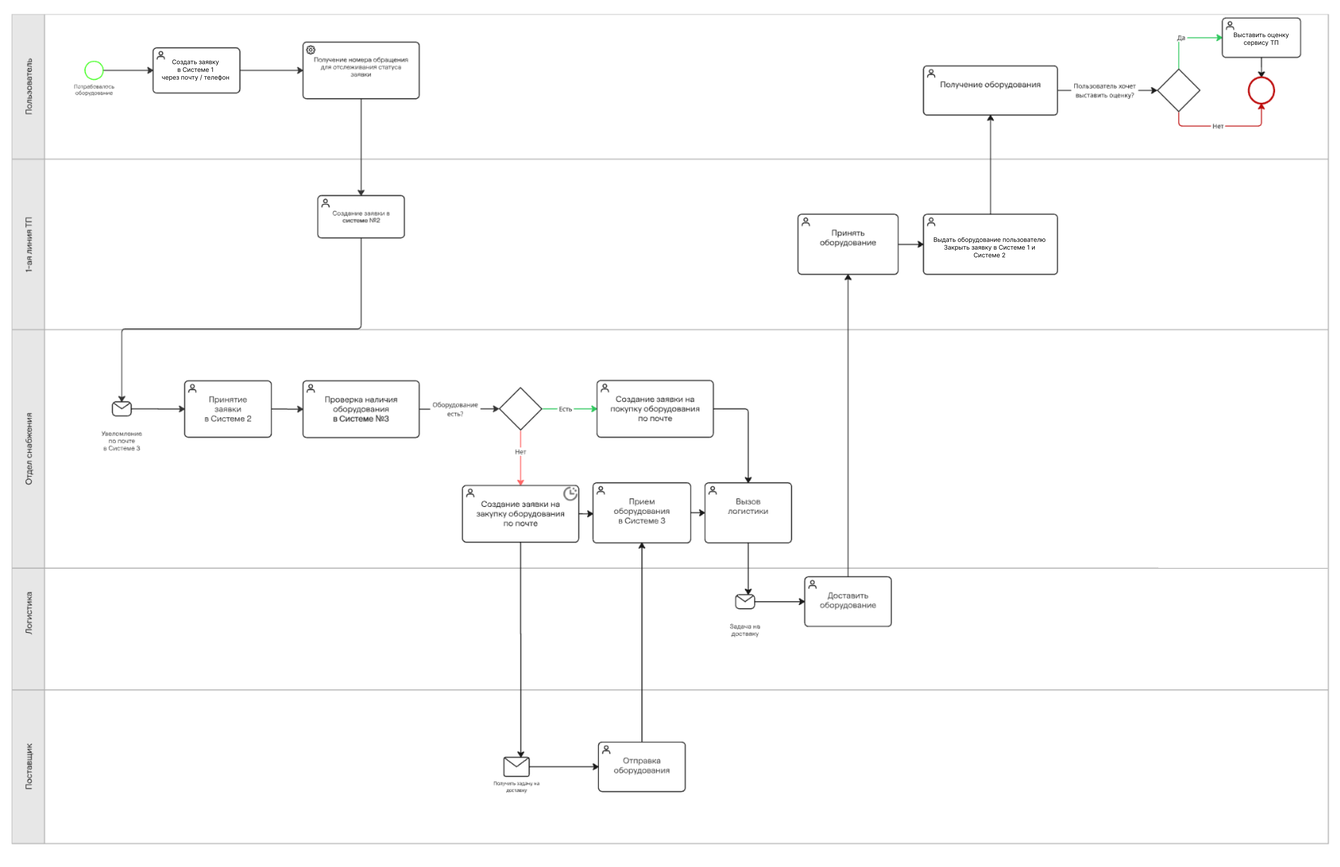
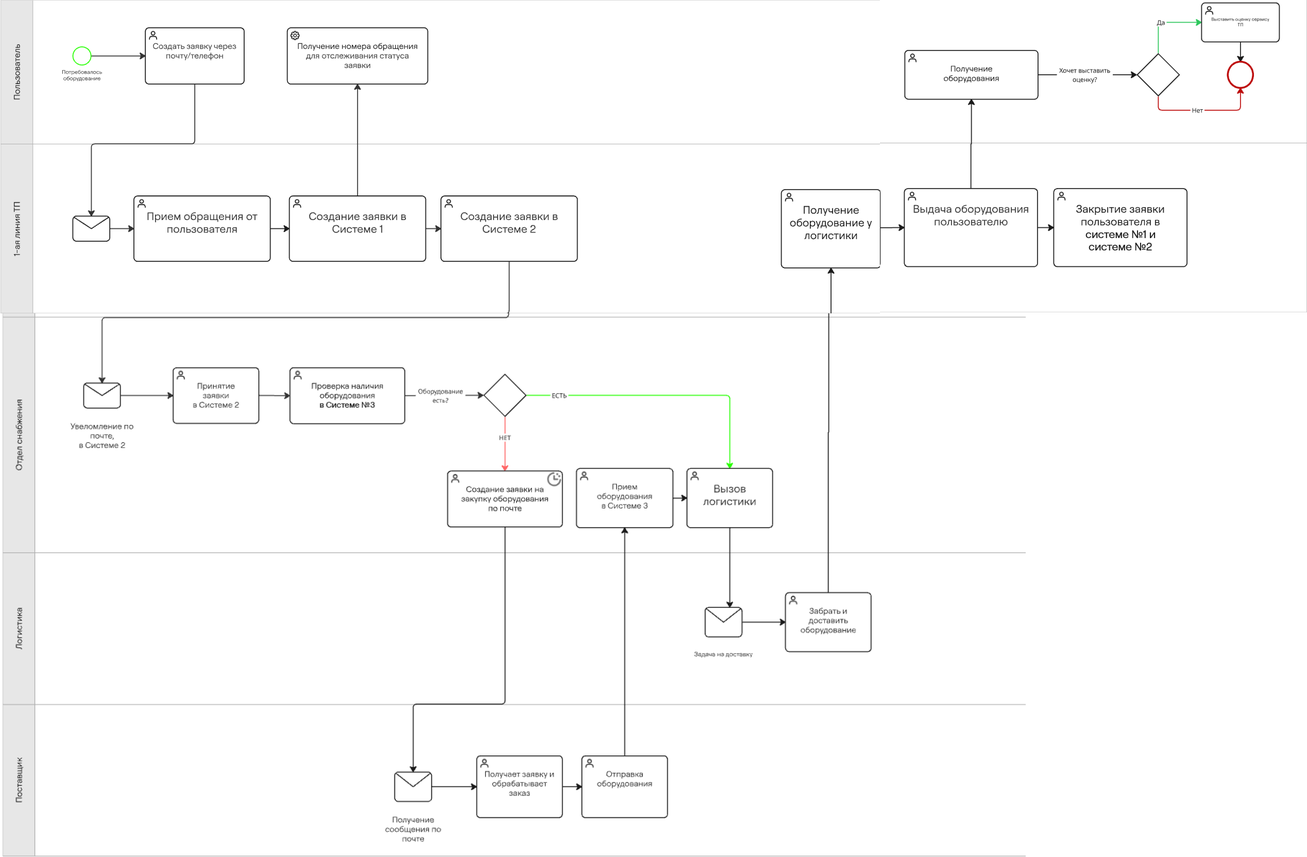
upd

diff --git a/Задание 3. Постановка на реализацию REST API регистрации пользователя.md b/Задание 3. Постановка на реализацию REST API регистрации пользователя.md
@@ -3,57 +3,49 @@
 
 Необходимо реализовать REST API метод для регистрации нового пользователя в системе Book Store.
 
-Метод должен вызываться фронтендом при нажатии пользователем кнопки `Register` на форме регистрации.
+Метод вызывается фронтендом после нажатия кнопки `Register` на форме регистрации.
 
-В рамках метода бэк-сервис должен:
+Бэк-сервис должен принять данные из формы, проверить их корректность, проверить reCaptcha, убедиться, что пользователь с таким логином ещё не существует, создать пользователя в базе данных и вернуть результат регистрации.
 
-1. Принять данные пользователя из формы регистрации.
-2. Проверить корректность переданных данных.
-3. Проверить прохождение reCaptcha.
-4. Проверить, что пользователь с таким логином ещё не зарегистрирован.
-5. Создать нового пользователя в базе данных.
-6. Вернуть фронтенду результат регистрации.
+## 2. Данные формы регистрации
 
-## 2. Экран регистрации
+На экране регистрации пользователь заполняет следующие поля:
 
-На форме регистрации пользователь заполняет следующие поля:
-
-1. `First Name` — имя пользователя.
-2. `Last Name` — фамилия пользователя.
-3. `UserName` — логин пользователя.
-4. `Password` — пароль пользователя.
-5. `reCaptcha` — подтверждение, что пользователь не является роботом.
-
-После заполнения формы пользователь нажимает кнопку `Register`.
+|Поле на форме|Описание|
+|---|---|
+|`First Name`|Имя пользователя|
+|`Last Name`|Фамилия пользователя|
+|`UserName`|Логин пользователя|
+|`Password`|Пароль пользователя|
+|`reCaptcha`|Проверка, что пользователь не является роботом|
 
 ## 3. REST API метод
 
-HTTP метод: `POST`
-
-URL: `/api/v1/users/register`
-
-Назначение метода: регистрация нового пользователя.
-
-Content-Type: `application/json`
+|Параметр|Значение|
+|---|---|
+|HTTP метод|`POST`|
+|URL|`/api/v1/users/register`|
+|Content-Type|`application/json`|
+|Назначение|Регистрация нового пользователя|
 
 ## 4. Входные параметры
 
 |Параметр|Тип|Обязательный|Описание|Ограничения|
 |---|---|---|---|---|
-|`firstName`|string|Да|Имя пользователя|Не должно быть пустым. Максимальная длина — 50 символов|
-|`lastName`|string|Да|Фамилия пользователя|Не должно быть пустым. Максимальная длина — 50 символов|
-|`userName`|string|Да|Логин пользователя|Не должен быть пустым. Максимальная длина — 50 символов. Должен быть уникальным|
-|`password`|string|Да|Пароль пользователя|Минимум 8 символов. Должен содержать цифру, заглавную букву, строчную букву и специальный символ|
-|`recaptchaToken`|string|Да|Токен проверки reCaptcha|Должен быть передан после прохождения reCaptcha на фронтенде|
+|`firstName`|string|Да|Имя пользователя|Не пустое значение, максимум 50 символов|
+|`lastName`|string|Да|Фамилия пользователя|Не пустое значение, максимум 50 символов|
+|`userName`|string|Да|Логин пользователя|Не пустое значение, максимум 50 символов, должен быть уникальным|
+|`password`|string|Да|Пароль пользователя|Минимум 8 символов, минимум одна цифра, одна заглавная буква, одна строчная буква и один специальный символ|
+|`recaptchaToken`|string|Да|Токен reCaptcha, полученный на фронтенде|Должен быть передан и успешно проверен на стороне бэк-сервиса|
 
 ## 5. Пример запроса
 
-```
+```http
 POST /api/v1/users/register
 Content-Type: application/json
 ```
 
-```
+```json
 {
   "firstName": "Ivan",
   "lastName": "Ivanov",
@@ -69,16 +61,15 @@ HTTP статус: `201 Created`
 
 Условие: пользователь успешно создан в базе данных.
 
-|   |   |   |   |
-|---|---|---|---|
 |Параметр|Тип|Обязательный|Описание|
+|---|---|---|---|
 |`userId`|integer|Да|Идентификатор созданного пользователя|
 |`userName`|string|Да|Логин созданного пользователя|
 |`message`|string|Да|Сообщение об успешной регистрации|
 
-Пример успешного ответа:
+Пример ответа:
 
-```
+```json
 {
   "userId": 12345,
   "userName": "ivan",
@@ -86,26 +77,26 @@ HTTP статус: `201 Created`
 }
 ```
 
-## 7. Ответ с ошибкой
+## 7. Формат ответа с ошибкой
 
-|   |   |   |   |
-|---|---|---|---|
 |Параметр|Тип|Обязательный|Описание|
-|`errorCode`|string|Да|Внутренний код ошибки|
-|`message`|string|Да|Текст ошибки для отображения на фронтенде|
-|`details`|array|Нет|Детализация ошибок по конкретным полям|
+|---|---|---|---|
+|`errorCode`|string|Да|Код ошибки|
+|`message`|string|Да|Текст ошибки|
+|`details`|array|Нет|Список ошибок по отдельным полям|
 
 ## 8. Возможные ошибки
 
-|   |   |   |   |
+|Условие|HTTP статус|Код ошибки|Сообщение|
 |---|---|---|---|
-|HTTP статус|Код ошибки|Сообщение|Условие возникновения|
-|`400 Bad Request`|`VALIDATION_ERROR`|`Validation error`|Не заполнено одно или несколько обязательных полей|
-|`400 Bad Request`|`INVALID_PASSWORD`|`Password must have at least one non alphanumeric character, one digit ('0'-'9'), one uppercase ('A'-'Z'), one lowercase ('a'-'z'), one special character and Password must be eight characters or longer.`|Пароль не соответствует требованиям|
-|`400 Bad Request`|`RECAPTCHA_REQUIRED`|`Please verify reCaptcha to register!`|Не передан токен reCaptcha|
-|`400 Bad Request`|`RECAPTCHA_FAILED`|`Please verify reCaptcha to register!`|Проверка reCaptcha не пройдена|
-|`409 Conflict`|`USER_EXISTS`|`User exists!`|Пользователь с таким `userName` уже существует|
-|`500 Internal Server Error`|`INTERNAL_ERROR`|`Internal server error`|Непредвиденная ошибка на стороне сервера|
+|Тело запроса отсутствует или передано не в формате JSON|`400 Bad Request`|`INVALID_REQUEST`|`Invalid request body`|
+|Не заполнено одно или несколько обязательных полей|`400 Bad Request`|`VALIDATION_ERROR`|`Validation error`|
+|Значение одного из текстовых полей превышает допустимую длину|`400 Bad Request`|`VALIDATION_ERROR`|`Validation error`|
+|Пароль не соответствует требованиям безопасности|`400 Bad Request`|`INVALID_PASSWORD`|`Password must have at least one non alphanumeric character, one digit ('0'-'9'), one uppercase ('A'-'Z'), one lowercase ('a'-'z'), one special character and Password must be eight characters or longer.`|
+|Не передан токен reCaptcha|`400 Bad Request`|`RECAPTCHA_REQUIRED`|`Please verify reCaptcha to register!`|
+|Проверка reCaptcha не пройдена|`400 Bad Request`|`RECAPTCHA_FAILED`|`Please verify reCaptcha to register!`|
+|Пользователь с таким `userName` уже существует|`409 Conflict`|`USER_EXISTS`|`User exists!`|
+|Произошла непредвиденная ошибка на стороне сервера|`500 Internal Server Error`|`INTERNAL_ERROR`|`Internal server error`|
 
 ## 9. Примеры ответов с ошибкой
 
@@ -113,7 +104,7 @@ HTTP статус: `201 Created`
 
 HTTP статус: `400 Bad Request`
 
-```
+```json
 {
   "errorCode": "INVALID_PASSWORD",
   "message": "Password must have at least one non alphanumeric character, one digit ('0'-'9'), one uppercase ('A'-'Z'), one lowercase ('a'-'z'), one special character and Password must be eight characters or longer."
@@ -124,7 +115,7 @@ HTTP статус: `400 Bad Request`
 
 HTTP статус: `409 Conflict`
 
-```
+```json
 {
   "errorCode": "USER_EXISTS",
   "message": "User exists!"
@@ -135,18 +126,18 @@ HTTP статус: `409 Conflict`
 
 HTTP статус: `400 Bad Request`
 
-```
+```json
 {
-  "errorCode": "RECAPTCHA_REQUIRED",
+  "errorCode": "RECAPTCHA_FAILED",
   "message": "Please verify reCaptcha to register!"
 }
 ```
 
-### 9.4. Ошибка обязательных полей
+### 9.4. Не заполнены обязательные поля
 
 HTTP статус: `400 Bad Request`
 
-```
+```json
 {
   "errorCode": "VALIDATION_ERROR",
   "message": "Validation error",
@@ -165,60 +156,52 @@ HTTP статус: `400 Bad Request`
 
 ## 10. Алгоритм работы бэк-сервиса
 
-1. Бэк-сервис получает запрос `POST /api/v1/users/register`.
-2. Сервис получает из тела запроса следующие данные:
-    - `firstName`;
-    - `lastName`;
-    - `userName`;
-    - `password`;
-    - `recaptchaToken`.
-3. Сервис проверяет, что тело запроса передано в формате JSON.
-4. Сервис проверяет наличие обязательных полей:
-    - `firstName`;
-    - `lastName`;
-    - `userName`;
-    - `password`;
-    - `recaptchaToken`.
-5. Если одно или несколько обязательных полей не переданы, сервис возвращает ошибку `400 Bad Request`.
-6. Сервис удаляет лишние пробелы в начале и конце значений:
-    - `firstName`;
-    - `lastName`;
-    - `userName`.
-7. Сервис проверяет длину текстовых полей:
-    - `firstName` — не более 50 символов;
-    - `lastName` — не более 50 символов;
-    - `userName` — не более 50 символов.
-8. Если одно из полей превышает допустимую длину, сервис возвращает ошибку `400 Bad Request`.
-9. Сервис проверяет пароль на соответствие требованиям:
-    - длина не менее 8 символов;
-    - есть хотя бы одна цифра;
-    - есть хотя бы одна заглавная буква;
-    - есть хотя бы одна строчная буква;
-    - есть хотя бы один специальный символ.
-10. Если пароль не соответствует требованиям, сервис возвращает ошибку `400 Bad Request` с кодом `INVALID_PASSWORD`.
-11. Сервис проверяет наличие `recaptchaToken`.
-12. Если `recaptchaToken` не передан, сервис возвращает ошибку `400 Bad Request` с кодом `RECAPTCHA_REQUIRED`.
-13. Сервис отправляет `recaptchaToken` на проверку в сервис reCaptcha.
-14. Если reCaptcha не пройдена, сервис возвращает ошибку `400 Bad Request` с кодом `RECAPTCHA_FAILED`.
-15. Сервис выполняет поиск пользователя в базе данных по полю `userName`.
-16. Если пользователь с таким `userName` уже существует, сервис возвращает ошибку `409 Conflict` с кодом `USER_EXISTS`.
-17. Если пользователь с таким `userName` не найден, сервис хэширует пароль.
-18. Сервис создаёт нового пользователя в базе данных.
-19. В базе данных сохраняются:
+|Шаг|Действие|Если проверка не пройдена|Если проверка пройдена|
+|---|---|---|---|
+|1|Получить запрос `POST /api/v1/users/register`|Вернуть `400 Bad Request`, если тело запроса отсутствует или не является JSON|Перейти к проверке входных параметров|
+|2|Проверить наличие обязательных полей: `firstName`, `lastName`, `userName`, `password`, `recaptchaToken`|Вернуть `400 Bad Request` с кодом `VALIDATION_ERROR`|Перейти к нормализации данных|
+|3|Удалить лишние пробелы в начале и конце значений `firstName`, `lastName`, `userName`|—|Перейти к проверке длины полей|
+|4|Проверить длину `firstName`, `lastName`, `userName`|Вернуть `400 Bad Request` с кодом `VALIDATION_ERROR`, если значение превышает 50 символов|Перейти к проверке пароля|
+|5|Проверить пароль: минимум 8 символов, есть цифра, заглавная буква, строчная буква и специальный символ|Вернуть `400 Bad Request` с кодом `INVALID_PASSWORD`|Перейти к проверке reCaptcha|
+|6|Проверить `recaptchaToken` через сервис reCaptcha|Вернуть `400 Bad Request` с кодом `RECAPTCHA_FAILED`, если проверка не пройдена|Перейти к проверке пользователя в БД|
+|7|Найти пользователя в БД по `userName`|Вернуть `409 Conflict` с кодом `USER_EXISTS`, если пользователь уже существует|Перейти к созданию пользователя|
+|8|Захэшировать пароль|Вернуть `500 Internal Server Error`, если возникла техническая ошибка|Перейти к сохранению пользователя|
+|9|Создать пользователя в базе данных|Вернуть `500 Internal Server Error`, если возникла ошибка при сохранении|Вернуть `201 Created`|
+
+При создании пользователя в базе данных сохраняются:
 
 - имя пользователя;
+    
 - фамилия пользователя;
+    
 - логин пользователя;
+    
 - хэш пароля.
+    
 
-20. Пароль в открытом виде в базе данных не сохраняется.
-21. Если пользователь успешно создан, сервис возвращает ответ `201 Created`.
-22. Если при выполнении операции произошла непредвиденная ошибка, сервис возвращает `500 Internal Server Error`.
+Пароль в открытом виде сохранять нельзя.
 
 ## 11. Требования к безопасности
 
 1. Пароль пользователя не должен сохраняться в базе данных в открытом виде.
+    
 2. Перед сохранением пароль должен быть захэширован.
+    
 3. В ответе API не должен возвращаться пароль или хэш пароля.
+    
 4. Проверка reCaptcha должна выполняться на стороне бэк-сервиса.
+    
 5. Ошибки сервера не должны раскрывать технические детали реализации.
+    
+
+## 12. Вопросы для уточнения
+
+1. Нужно ли приводить `userName` к нижнему регистру перед сохранением?
+    
+2. Какие символы допустимы в `userName`?
+    
+3. Нужно ли автоматически авторизовывать пользователя после успешной регистрации?
+    
+4. Нужно ли ограничивать количество попыток регистрации с одного IP?
+    
+5. Нужно ли логировать неуспешные попытки регистрации?

diff --git a/Задание 1. Противоречия к описанию рабочего потока.md b/Задание 1. Противоречия к описанию рабочего потока.md
@@ -1,7 +1,38 @@
-1. Не описаны статусы заявки и уведомления по ним для ТП и пользователя
-2. При создании заявки на закупку, есть ли отрицательный исход?
-3. Нет информации какие процессы выполняет логистика
-4. Пользователь сам создаёт заявку в системе №1 или ТП создаёт её за пользователя?
-5. Первая линия создаёт заявку в системе №2 для снабжения. Но потом первая линия закрывает заявку в системе №2. Нужно уточнить, кто реально владелец заявки в системе №2: первая линия или снабжение. Логичнее, чтобы снабжение закрывало свою часть, а первая линия закрывала только обращение пользователя в системе №1
-6. Если оборудование есть, не сказано, резервируется ли оно в системе №3. Иначе снабжение проверило наличие, но пока вызывает логистику, оборудование может уйти на другую заявку
-7. Логистика вызывается, но не сказано как: по телефону, через систему, через заявку, через почту. Если логистика отдельный участник процесса, у неё должен быть понятный вход: кто и как передаёт ей задачу
+# Общие вопросы:
+1. В чем разница систем 1 и 2? почему заявки заводятся в обеих?
+2. Есть ли проверка оборудования и на каком этапе? Блок, когда оборудование получено
+3. "Техническая поддержка выдаёт это  
+оборудование пользователю и закрывает заявку пользователя в системе №1 и  
+закрывает заявку в системе №2. Пользователь получает оборудование и может  
+выставить оценку сервиса технической поддержке.  
+На модели можно указать вопросы, противоречия к описанию рабочего потока. (Чего  
+не хватает для грамотного отражения модели «как есть»" 
+Сколько линий техподдержки? В тексте не указано, что это первая линия
+
+
+# Пользователь
+1. Каким образом пользователь получает номер для отслеживания? Это автоматизировано или вручную, куда поступает номер для отслеживания?
+2. Каким образом пользователь узнает о статусе заявки?
+3. Может ли пользователь отказаться от оборудования и отменить заявку? А если брак? Не предусмотрена отмена заявки, А если пользователь не забрал оборудование?
+
+# 1-ая линия ТП
+1. Каким образом тп отдает оборудование пользователю? Через логистику или как?
+2. Кто в тп отдает оборудование? это одна и та же тп?
+3. Заявка в системе 2 создается руками или автоматически?
+4. Заявка в системе 1 тоже вручную создается?
+5. Если оборудование выдается, то в системе 3 это должно быть зафиксировано. Что происходит в системе 3 при выдаче оборудования?
+6. Не описаны статусы, какие роли получают статусы, автоматически или вручную?
+# Отдел снабжения
+1. Не описана закупка оборудования, это должен быть подпроцесс, но это опущено
+2. Какое разграничение прав в отделе снабжения? Все видят все или это делает один сотрудник? Как распределяются заявки между спецами в отделе снабжения?
+
+# Логистика
+1. Каким образом вызывается логистика?
+2. Если поставщик доставляет оборудоване, то оборудование появляется в наличии и отображается в системе 3? гипотеза. Вообще не описана система 3, неясно кто фиксирует оборудование
+3. Доступ к системе: уведомления пользователю и тп. В каких системах и как отслеживается?
+4. Не определены временные параметры по каждому участнику
+
+
+
+# Поставщик
+1. Нет негативной ветки, что он делает если оборудования нет?

diff --git a/Задание 2. Функциональность публикации товара на маркетплейсе.md b/Задание 2. Функциональность публикации товара на маркетплейсе.md
@@ -183,16 +183,16 @@
 
 ## Вопросы для уточнения
 
-1. Нужна ли модерация товара перед публикацией?
-    
-2. Какие поля товара являются обязательными?
-    
-3. Отличаются ли обязательные поля для разных категорий товаров?
-    
-4. Какие требования есть к изображениям товара?
-    
-5. Может ли продавец редактировать товар после публикации?
-    
-6. Нужно ли показывать историю изменений товара?
-    
-7. Нужно ли ограничивать публикацию товаров для некоторых продавцов?
+1. Требуется ли проверка или модерация товара перед публикацией на витрине?
+
+2. Какие поля карточки товара должны быть обязательными для заполнения?
+
+3. Зависят ли обязательные поля и характеристики товара от выбранной категории?
+
+4. Какие ограничения должны применяться к изображениям товара: формат, размер, количество, разрешение?
+
+5. Может ли продавец редактировать карточку товара после публикации?
+
+6. Нужно ли хранить и отображать историю изменений карточки товара?
+
+7. Должны ли быть ограничения на публикацию товаров для отдельных продавцов или категорий продавцов?
